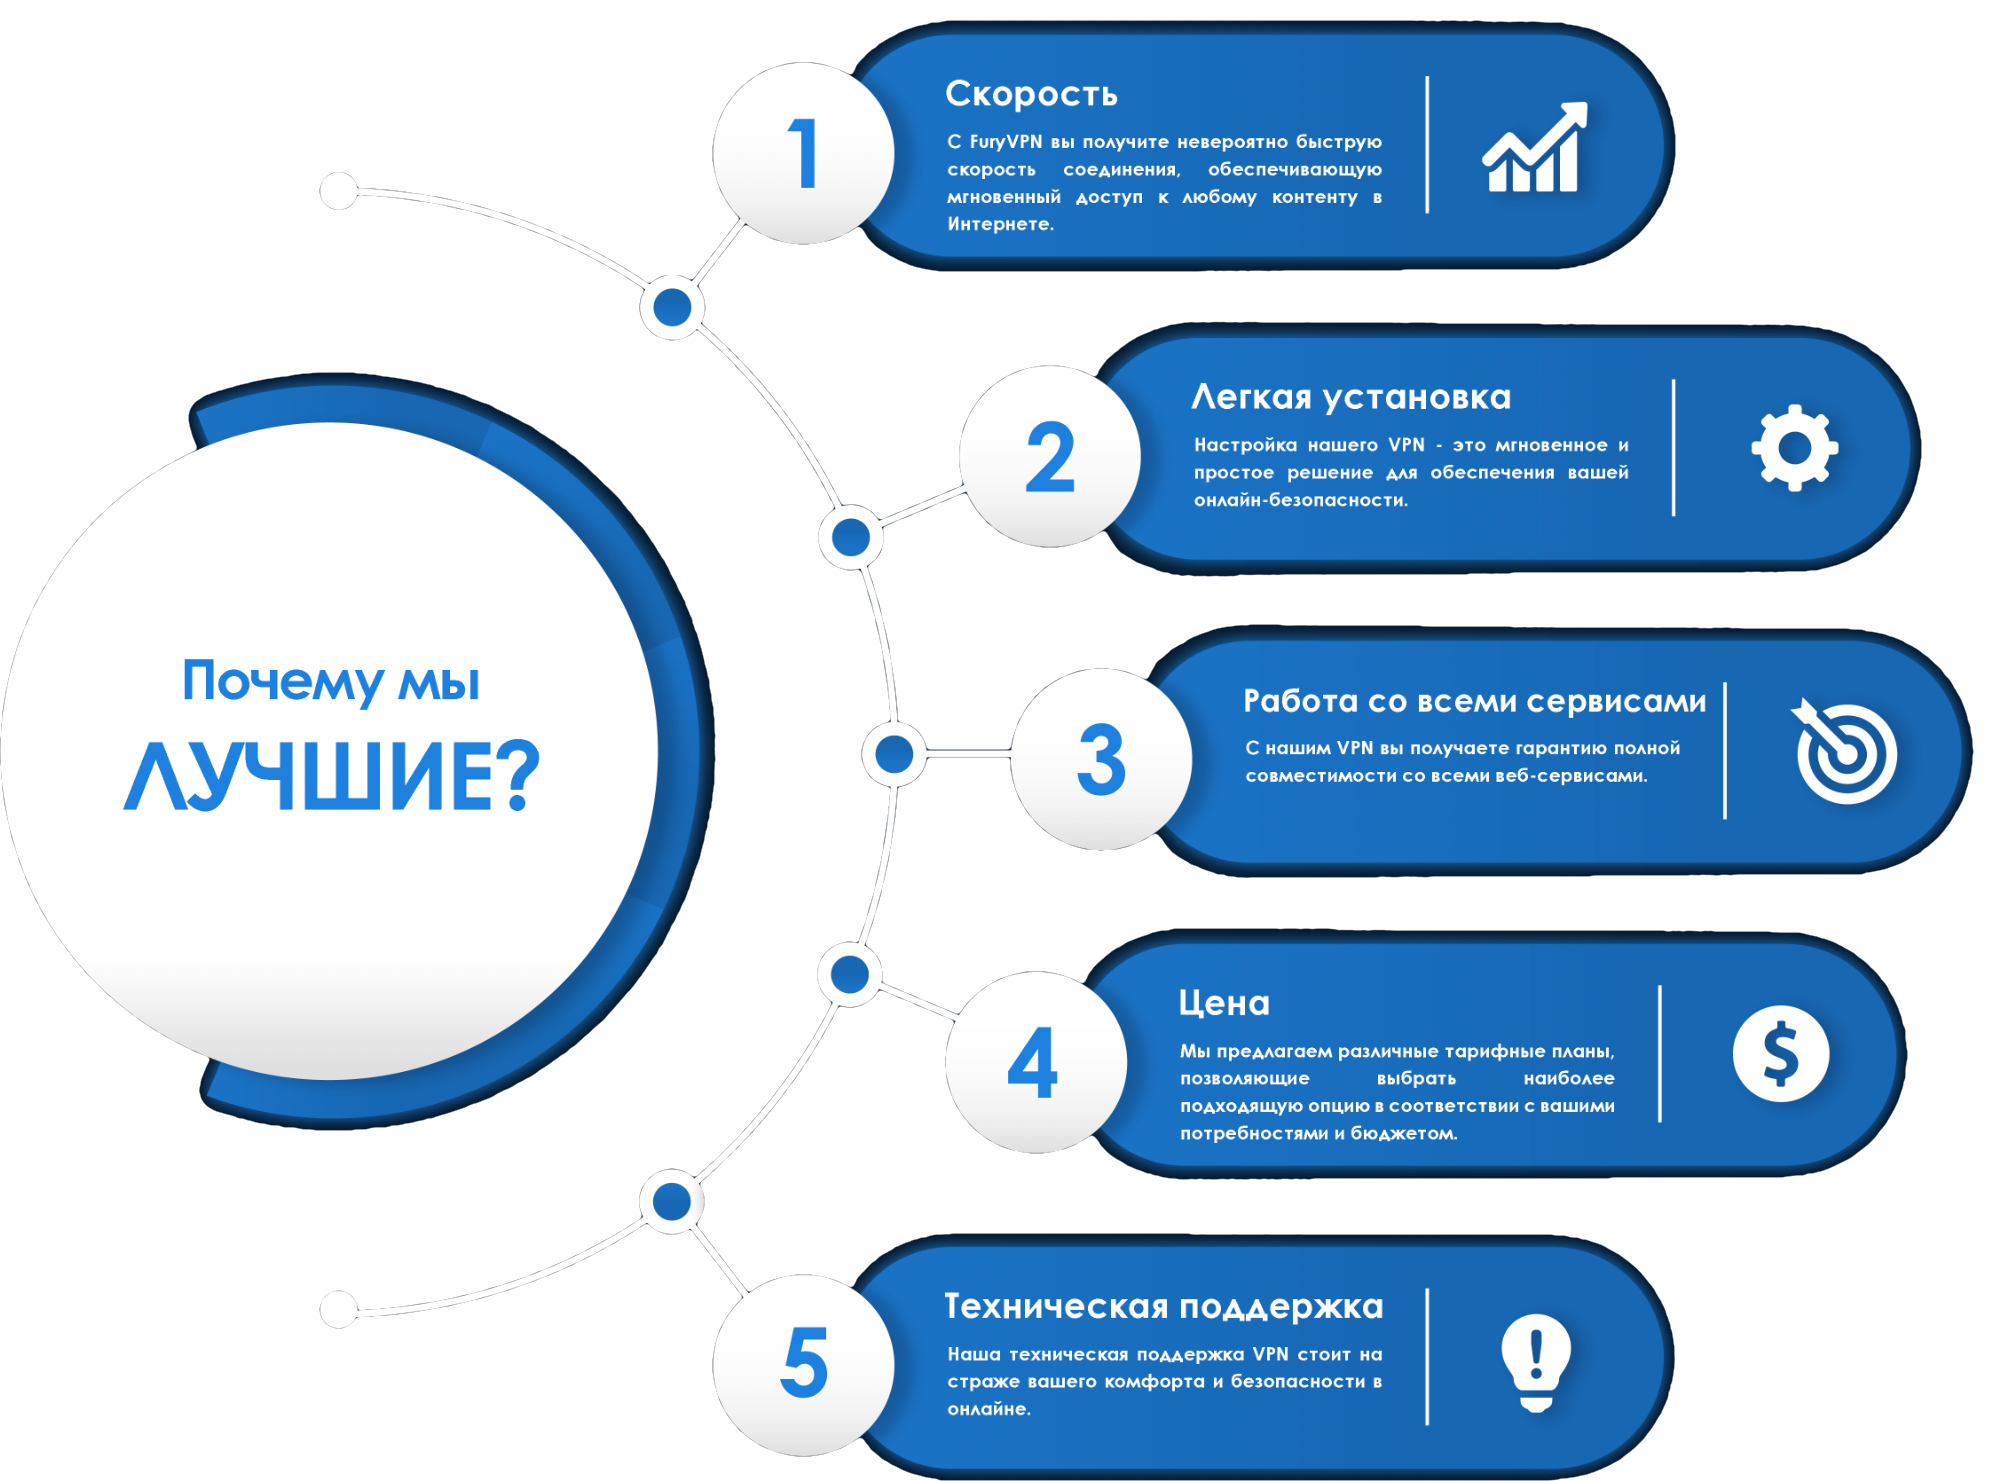
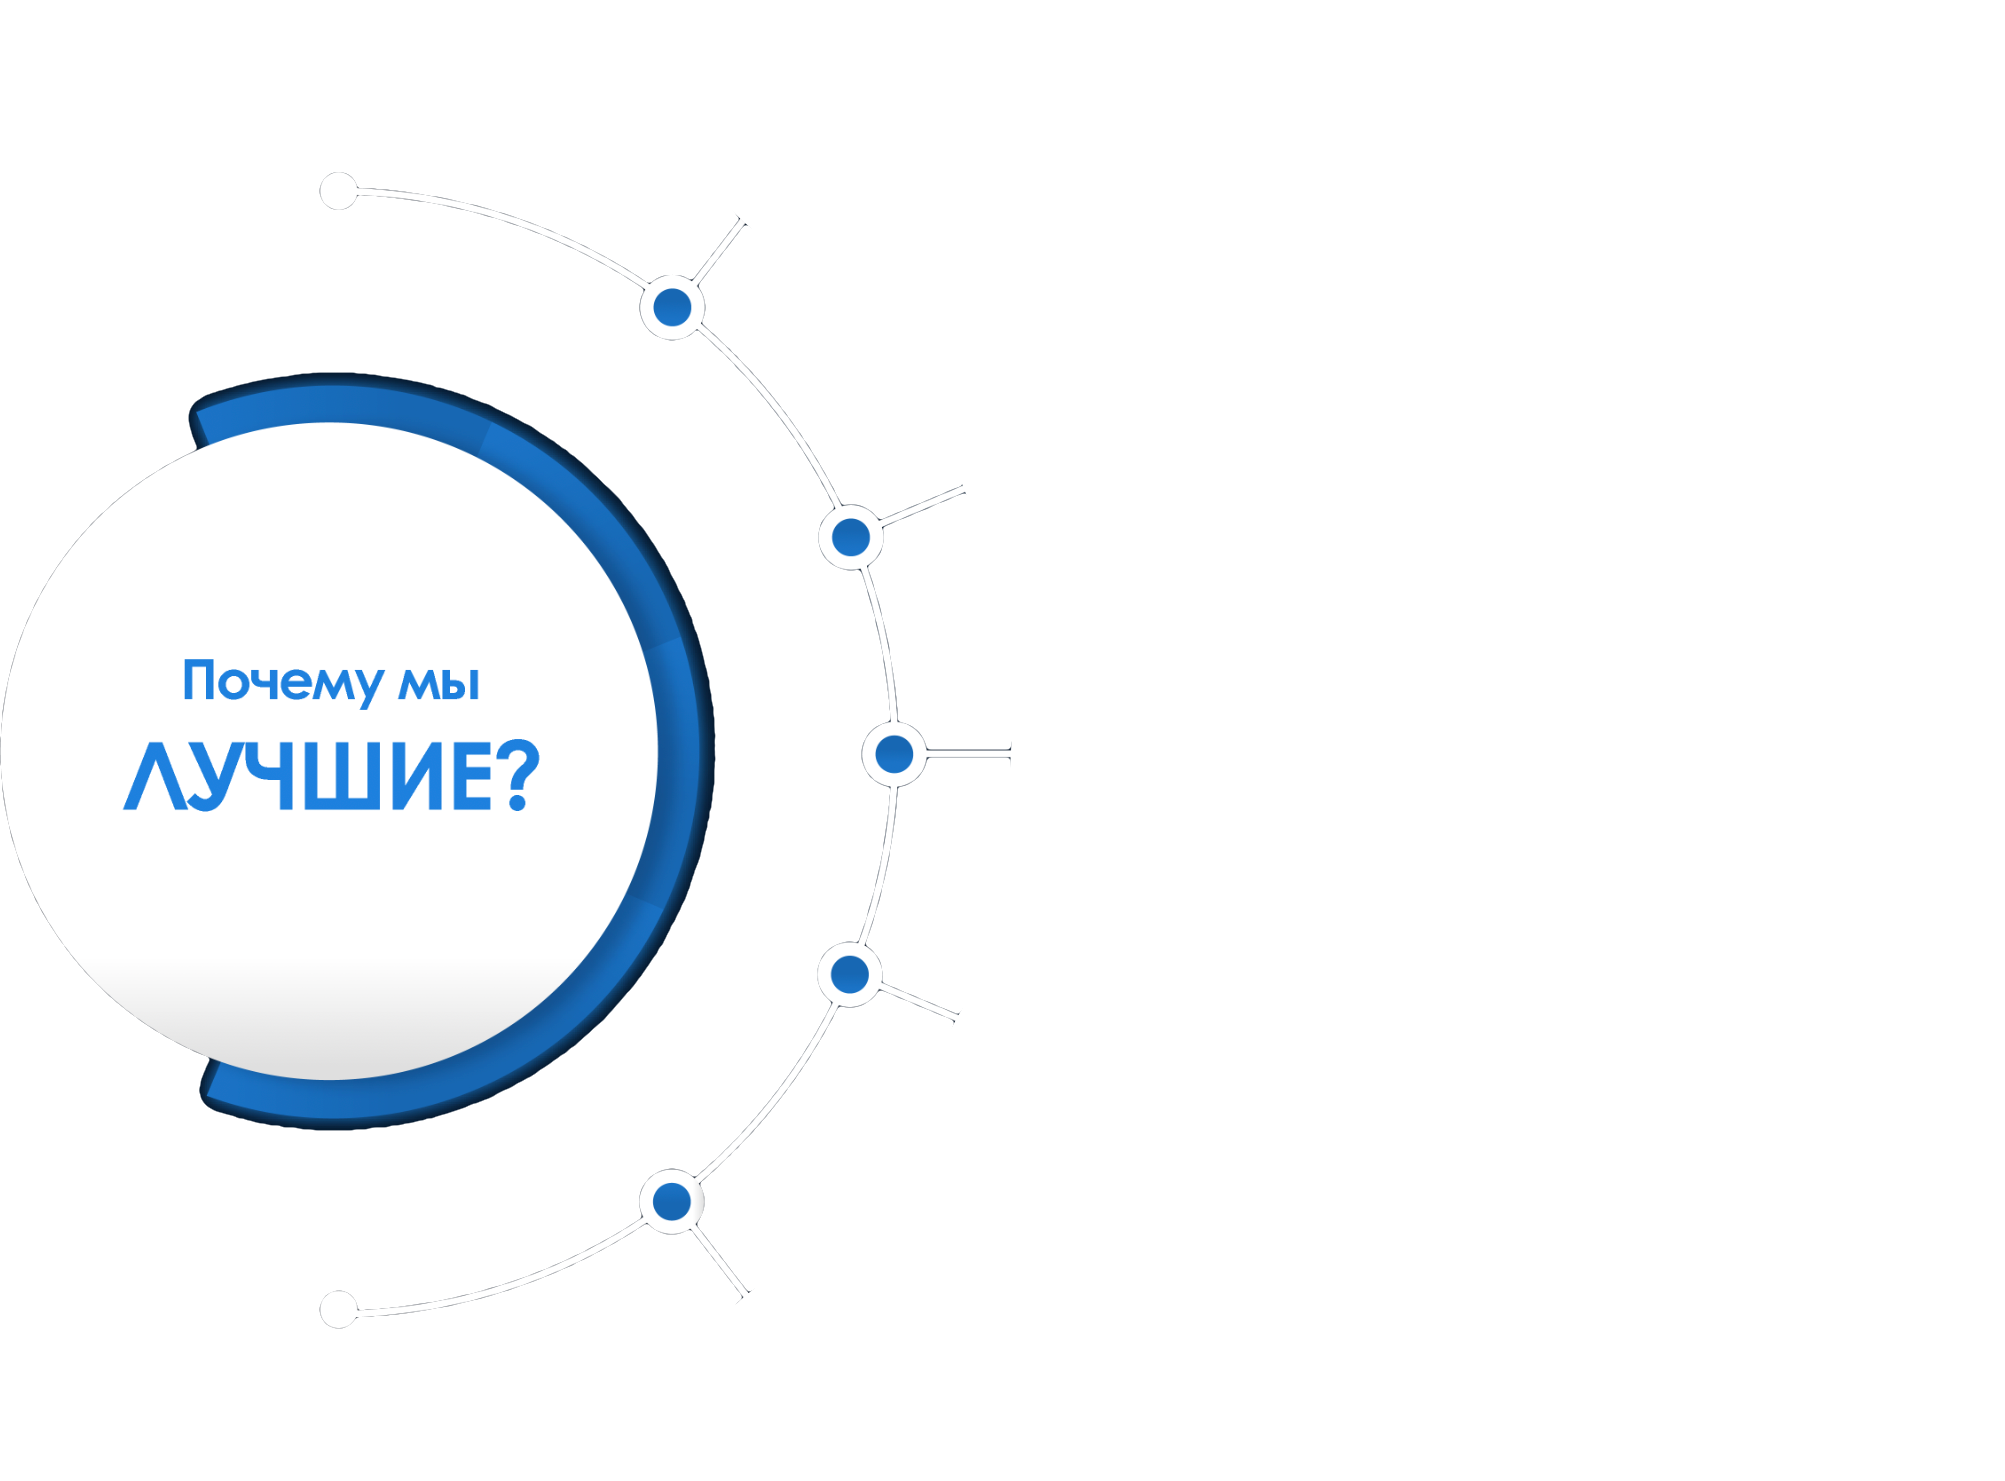
fix

diff --git a/css/style.css b/css/style.css
@@ -8,12 +8,7 @@ img {
   max-height: 100%;
 }
 body {
-  background: rgb(6, 23, 43);
-  background: radial-gradient(
-    circle,
-    rgba(6, 23, 43, 1) 11%,
-    rgba(0, 0, 5, 1) 75%
-  );
+  background-color: rgb(0, 0, 5);
   color: #f2f2f2;
   min-height: 100vh;
 }
@@ -29,6 +24,12 @@ body {
 }
 section {
   padding: 100px 0;
+  background: rgb(6, 23, 43);
+  background: radial-gradient(
+    circle,
+    rgba(6, 23, 43, 1) 11%,
+    rgba(0, 0, 5, 1) 75%
+  );
 }
 .btn {
   color: #fff;
@@ -144,6 +145,7 @@ section {
   display: flex;
   align-items: center;
   gap: 5px;
+  text-decoration: none;
 }
 .logo__img {
   width: 50px;
@@ -151,6 +153,7 @@ section {
 .logo__text {
   font-size: 14px;
   white-space: nowrap;
+  color: #fff;
 }
 .nav {
   padding: 30px 0;
@@ -371,10 +374,50 @@ section {
 .why-we__content {
   text-align: center;
 }
-.why-we__img {
+.why-we__img-wrap {
   max-width: 800px;
-  margin-top: 40px;
   width: 100%;
+  margin: 40px auto 0;
+}
+.why-we__img-block {
+  padding-bottom: 74%;
+  position: relative;
+}
+.why-we__img-main,
+.why-we__img {
+  position: absolute;
+  top: 0;
+  left: 0;
+  width: 100%;
+}
+.why-we__img {
+  transition: 0.5s;
+  width: 48%;
+}
+.why-we__img:hover {
+  transform: scale(1.1);
+}
+.why-we__img:nth-child(2) {
+  top: 1%;
+  left: 35%;
+}
+.why-we__img:nth-child(3) {
+  top: 21%;
+  left: 47%;
+}
+.why-we__img:nth-child(4) {
+  top: 41%;
+  left: 50%;
+}
+.why-we__img:nth-child(5) {
+  bottom: 20%;
+  top: auto;
+  left: 47%;
+}
+.why-we__img:nth-child(6) {
+  bottom: 0;
+  top: auto;
+  left: 35%;
 }
 
 .manual__title {
@@ -523,8 +566,6 @@ section {
 }
 .about .row {
   align-items: flex-start;
-  justify-content: space-around;
-  /* gap: 450px; */
 }
 .about__title {
   text-align: center;
@@ -533,11 +574,10 @@ section {
 .about__img {
   max-height: 350px;
   height: 25vw;
-  transform: translateX(60px);
 }
 .about__img:last-child {
-  height: 30vw;
-  max-height: 450px;
+  height: 28vw;
+  max-height: 405px;
 }
 .about__text {
   text-align: justify;
@@ -548,6 +588,29 @@ section {
   left: 0;
   right: 0;
   margin: 0 auto;
+}
+
+.footer {
+  padding: 30px 0;
+}
+.footer .logo__img {
+  width: 75px;
+}
+.footer .logo__text {
+  font-size: 20px;
+}
+.footer .logo__desc {
+  color: #fff;
+  font-size: 12px;
+}
+.footer__links {
+  display: flex;
+  flex-direction: column;
+  gap: 10px;
+}
+.footer__links a {
+  color: #fff;
+  font-size: 13px;
 }
 
 @media (max-width: 1260px) {
@@ -721,5 +784,19 @@ section {
   }
   .lk__subscription span {
     color: #858585;
+  }
+
+  .footer .row {
+    flex-direction: column;
+    gap: 50px;
+  }
+  .footer .logo__img {
+    width: 75px;
+  }
+  .footer .logo__text {
+    font-size: 20px;
+  }
+  .footer__links {
+    align-items: center;
   }
 }

diff --git a/index.html b/index.html
@@ -16,10 +16,10 @@
   <nav class="nav">
     <div class="container">
       <div class="row">
-        <div class="logo">
+        <a href="./index.html" class="logo">
           <img src="./img/logo.png" class="logo__img">
           <span class="logo__text">Fury VPN</span>
-        </div>
+        </a>
         <ul class="nav__links">
           <li>
             <a class="nav__link link" href="#manual">Инструкция</a>
@@ -63,7 +63,17 @@
     <div class="container">
       <div class="why-we__content">
         <h2 class="title">Наш VPN &mdash; лучший на рынке</h2>
-        <img src="./img/main/why_we.png" class="why-we__img">
+
+        <div class="why-we__img-wrap">
+          <div class="why-we__img-block">
+            <img src="./img/main/why_we.png" class="why-we__img-main">
+            <img src="./img/main/1.png" class="why-we__img">
+            <img src="./img/main/2.png" class="why-we__img">
+            <img src="./img/main/3.png" class="why-we__img">
+            <img src="./img/main/4.png" class="why-we__img">
+            <img src="./img/main/5.png" class="why-we__img">
+          </div>
+        </div>
       </div>
     </div>
   </section>
@@ -187,6 +197,24 @@
     </div>
   </section>
 
+  <footer class="footer">
+    <div class="container">
+      <div class="row">
+        <a href="./index.html" class="logo">
+          <img src="./img/logo.png" class="logo__img">
+          <div>
+            <div class="logo__text">Fury VPN</div>
+            <div class="logo__desc">Самый быстрый в России</div>
+          </div>
+        </a>
+        <div class="footer__links">
+          <a href="./policy.txt" target="_blank">Политика конфиденциальности</a>
+          <a href="./offer.txt" target="_blank">Договор оферты</a>
+        </div>
+      </div>
+    </div>
+  </footer>
+
   <script src="./js/jquery.min.js"></script>
   <script>
     // плавный скролл
@@ -196,7 +224,7 @@
       if (href.split('#')[1].trim()) {
         $('html').animate({
           scrollTop: $(href).offset().top
-        }, 300);
+        }, 600);
       }
       return false;
     });

diff --git a/lk.html b/lk.html
@@ -16,10 +16,10 @@
   <nav class="nav">
     <div class="container">
       <div class="row">
-        <div class="logo">
+        <a href="./index.html" class="logo">
           <img src="./img/logo.png" class="logo__img">
           <span class="logo__text">Fury VPN</span>
-        </div>
+        </a>
         <ul class="nav__links">
           <li>
             <a class="nav__link link" href="./index.html#manual">Инструкция</a>
@@ -74,6 +74,16 @@
             <a href="#" class="lk__link"><span>Войти</span></a>
           </div>
 
+          <div class="lk__tariff">
+            <div class="lk__period">1 год</div>
+            <div class="lk__price">1999р.</div>
+            <a href="#" class="lk__link"><span>Войти</span></a>
+          </div>
+          <div class="lk__tariff">
+            <div class="lk__period">1 год</div>
+            <div class="lk__price">1999р.</div>
+            <a href="#" class="lk__link"><span>Войти</span></a>
+          </div>
           <div class="lk__tariff">
             <div class="lk__period">1 год</div>
             <div class="lk__price">1999р.</div>

diff --git a/error.html b/error.html
@@ -16,10 +16,10 @@
   <nav class="nav">
     <div class="container">
       <div class="row">
-        <div class="logo">
+        <a href="./index.html" class="logo">
           <img src="./img/logo.png" class="logo__img">
           <span class="logo__text">Fury VPN</span>
-        </div>
+        </a>
         <ul class="nav__links">
           <li>
             <a class="nav__link link" href="./index.html#manual">Инструкция</a>
